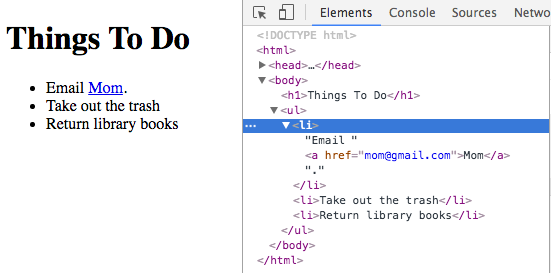
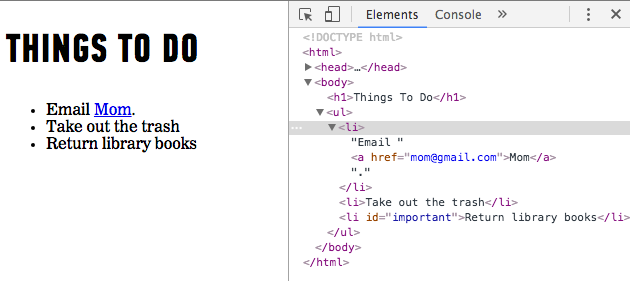
Splitting some material into lesson 2

Changed region(s): [[0.0, 0.0, 1.0, 1.0], [0.0309, 0.293, 0.3394, 0.5568], [0.0, 0.0879, 0.3702, 0.2344]]

diff --git a/05_chapter/08_lesson.md b/05_chapter/08_lesson.md
@@ -1,7 +1,9 @@
 **WDI Fundamentals Unit 5**
 
 ---
-#A Closer Look at the DOM
+#Manipulating the DOM
+
+## A Closer Look at the DOM
 
 We mentioned before that when a browser retrieves the HTML for a page it makes a model of that page in memory. This model is called the DOM.
 
@@ -58,20 +60,15 @@ JavaScript comes with some "built-in" functions that will allow us to access and
 
 Let's take a look at some of the methods we have available to us!
 
-
-#Manipulating the DOM
-
 ##Accessing Elements
 
-First things first! Before we can work with an element, we first need to *find* the DOM node that represents the element that we want to work with.
+First things first! Before we can work with an element, we first need to find, or *select* the DOM node that represents the element that we want to work with.
 
 In order to find an element, we need to search through the document for that element. The syntax for searching for an element looks something like this:
 
 ```js
 document.getElementById('main')
 ```
-
-Let's break this down.
 
 * `document` - Refers to the document object. Any time we want to find an element or elements, we'll need to access them through the document object. This will allow us to search the entire page for an element.
 
@@ -80,6 +77,9 @@ Let's break this down.
 * `getElementById()` - This is the method we want to use to find an element. We'll take a look at the methods that are available to us shortly. This method in particular lets us locate an element by the value of its `id` attribute.
 
 * `'main'` - Just like with the functions we've learned about earlier in this unit, we can pass in parameters for these methods to use. In this case, we want to find an element that has an `id` of `main`.
+
+> **NOTE** Note that using proper syntax here is important! These methods are case sensitive. `getElementByID` (with a capital D) will throw an error and will not work.
+
 
 ###Selecting an Individual Element
 
@@ -90,6 +90,8 @@ There are a couple of methods we can use to find an individual element.
 ####`getElementById()`
 
 The fastest route to finding any single element is `getElementById()`. Since `id`s are unique, meaning two elements cannot have the same value for an `id` attribute in any given HTML page, this query will allow us to quickly find an individual element.
+
+HTML:
 
 ```html
 <div id="sidebar">
@@ -102,23 +104,32 @@ The fastest route to finding any single element is `getElementById()`. Since `id
 </div>
 ```
 
+
+JavaScript:
+
 ```js
 document.getElementById('sidebar')
 ```
-In the above example, we are finding the element that has an `id` of `sidebar`.
+This will find the element that has an `id` of `sidebar`.
 
-
+---
 
 ####`querySelector()`
 
-This method is a recent addition to the DOM and is not supported by older browsers. It's handy because it allows us to use our CSS selector syntax to find an element. If there are multiple elements on the page that match the selector, it will return the first of the matching elements.
+This method allows us to use our CSS selector syntax to find an element. If there are multiple elements on the page that match the selector, it will return the *first* of the matching elements. It is important to note that this a recent addition to the DOM and is not supported by older browsers.
 
 ```js
 document.querySelector('.special')
 ```
 
-This will return the first element that has a `class` of `special`. You can use any of your CSS-style selectors as a parameter. 
+This will return the first element on the page that has a `class` of `special`. You can use any of your CSS-style selectors as a parameter. 
 
+Other examples:
+
+```js
+document.querySelector('#sidebar') // This will find the element that has an id of sidebar.
+document.querySelector('ul > li') // This will find the first li that is a direct child of the ul.
+```
 
 
 ###Selecting Multiple Elements
@@ -142,6 +153,7 @@ For each example below, you can use this HTML snippet as a reference:
 </div>
 ```
 
+___
 
 ####`document.getElementsByClassName()`
 
@@ -152,6 +164,7 @@ document.getElementsByClassName('special')
 ```
 This will return any elements that have the class `special`. In the above example, this will return a NodeList containing the second and third list items, since they both have the class `special`.
 
+---
 
 
 ####`document.getElementsByTagName()`
@@ -162,6 +175,8 @@ This method will locate all elements that match a given tag name.
 document.getElementsByTagName('li')
 ```
 Here, this query will return all `<li>` elements. In the case, the NodeList will contain all seven `<li>`.
+
+___
 
 
 
@@ -174,13 +189,15 @@ document.querySelectorAll('.special')
 ```
 This will return any elements that have the class `special`. In the above example, this will return a NodeList containing the second and third list items, since they both have the class `special`.
 
+___
+
 ####Working with NodeLists
 
-Any time there is the *potential* for a method to return more than one element, such as with `getElementsByClassName()`, `getElementsByTagName()`, and `querySelectorAll`, a NodeList will be returned.
+Any time there is even the *potential* for a method to return more than one element, such as with `getElementsByClassName()`, `getElementsByTagName()`, and `querySelectorAll`, a NodeList will be returned, *even if only one element is found that matches the query*.
 
-These NodeLists are **collections** that are numbered similar to the arrays we looked at in Unit 2.
+These NodeLists are **collections** that are numbered similar to the arrays we will be looking at in Unit 6.
 
-We can select a single item to work from using array syntax (our trusty square brackets).
+When we get this list, we can select a single item from that list to work with using array syntax – a set of square brackets.
 
 For example, above we saw that `document.getElementsByTagName('li')` returned seven list items. The NodeList that was returned would look like this:
 
@@ -194,12 +211,15 @@ For example, above we saw that `document.getElementsByTagName('li')` returned se
 | 5   | `<li>Saturday</li>`  |
 | 6      | `<li>Sunday</li>`  |
 
-		
+Note how each node has an index associated with it. These indexes are *zero based* – meaning the first node has an index of 0, the second node an index of 1, etc.
+
+
 To locate the fourth item in that NodeList, `<li>Thursday</li>`, we could use the following syntax:
 
 ```js
 document.getElementsByTagName('li')[3].className = 'special'
 ```
+Directly after the `getElementsByTagName('li')` we have the index number of the item we want to locate within square brackets, `[3]`, which would locate the item at index 3.
 
 This would find the fourth list item and change the class attribute to `special` (we'll take a look at the className method shortly).
 
@@ -256,7 +276,7 @@ This method will locate the parent of an initial selection.
 ```js
 Document.getElementsByTagName('li')[0].parentNode() 
 ```
-THis will return the parent of the first `<li` element, which, in this case, is the `<ul>` element since it wraps all the `<li` elements.
+THis will return the parent of the first `<li>` element, which, in this case, is the `<ul>` element since it wraps all the `<li` elements.
 
 Other methods available to us include:
 * `previousSibling()` – This will find the previous sibling of a selected element.
@@ -277,6 +297,7 @@ In the following examples, we'll be using this HTML page as a reference:
 <head>
 	<meta charset="utf-8">
 	<title>To Do List</title>
+	<link rel="stylesheet" href="style.css">
 </head>
 <body>
 	<h1>Things To Do</h1>
@@ -297,7 +318,7 @@ Which will look like this when it is first loaded into the browser:
 
 ### Accessing and Updating Content
 
-There are many properties and methods that allow us to read from or update the contents of a DOM node. Let's take a look at a few:
+There are lots of properties and methods that allow us to read from or update the contents of a DOM node. Let's take a look at a couple now and then we'll expand upon these in the next lesson.
 
 ####**`innerHTML`**
 
@@ -306,7 +327,7 @@ We can use the `innerHTML` property to get and set content for an element.
 For example, if we want to change the HTML content for the first `<li>`, we could execute the following:
 
 ```js
-document.getElementsByTagName('li')[0].innerHTML = Email <a href="mom@gmail.com">Mom</a>.';
+document.getElementsByTagName('li')[0].innerHTML = 'Email <a href="mom@gmail.com">Mom</a>.';
 ```
 This would find the first `<li>` and change the HTML content to `Email <a href="mom@gmail.com">Mom</a>.` The result will look like this:
 
@@ -334,82 +355,6 @@ This code would change the text content of the `<li>` that has the id `important
 <center><img src="../assets/chapter5/text_content.png"></center>
 <br>
 
-####**`createElement()` and `appendChild()`**
-
-To add new elements to the page, we'll use a three step process.
-
-1. We will use the `createElement()` method to create a new element, which can then be added to the page. When this node is created, it will be empty. This element will be stored in a variable
-2. We will then add content to the element using the `innerHTML` or `textContent` properties we looked at above.
-3. Now that our element has been created we can add it as a child of an element using the `appendChild()` method.
-
-To add a fourth item to our list we can execute the following code:
-
-```js
-// First up, let's create a new list item and store it in a variable.
-var newListItem = document.createElement('li');
-
-// Alright! Now let's update the text content of that list item.
-newListItem.textContent = 'Feed the cat';
-
-// And Finally...let's add that list item as a child of the ul.
-document.getElementsByTagName('ul')[0].appendChild(newListItem);
-
-```
-<br>
-<center><img src="../assets/chapter5/append_child.png"></center>
-<br>
-
-It takes a few steps but you'll get the hang of it in no time.
-
-### Getting and Setting Attributes
-
-We might also want to update styles and attributes for elements on the page. We can do so using the following properties and methods:
-
-####`className`
-We can change the value of a class attribute for an element using the `className` property. This will apply any styles in our CSS that are associated with that particular class.
-
-For example, maybe we want to highlight an important task in our list. We can add a class and styles in our CSS like so:
-
-```css
-.highlight {
-	background-color: yellow;
-}
-```
-
-And then we can use JavaScript to add this class:
-
-```js
-document.getElementById('important').className = 'highlight';
-
-```
-
-The `.highlight` class will then be added to the element with the id `important` and the background-color associated with this class will be applied:
-
-<br>
-<center><img src="../assets/chapter5/class_name.png"></center>
-<br>
-
-####`setAttribute()`, `removeAttribute()`
-
-We can set and remove attributes from elements using the `setAttribute()` and `removeAttribute()` methods.
-
-For example, if we want to update the `href` attribute on an anchor, we could do the following: 
-
-```js
-document.getElementsByTagName('a')[0].setAttribute('href', 'http://newurl.com');
-
-```
-
-Or if I wanted to remove an id from an element I could execute the following:
-
-```js
-document.getElementsByTagName('a')[0].removeAttribute('id');
-
-```
-
-#Conclusion
-
-Phew! There are so many properties and methods that it can be overwhelming at first! The important thing at this stage is that you understand how things work and know what tools are available to you. Memorization comes with practice!
 
 ---
 

diff --git a/05_chapter/10_lesson.md b/05_chapter/10_lesson.md
@@ -1,11 +1,87 @@
 
 
 
+####**`createElement()` and `appendChild()`**
+
+To add new elements to the page, we'll use a three step process.
+
+1. We will use the `createElement()` method to create a new element, which can then be added to the page. When this node is created, it will be *empty*. This element will be stored in a variable
+2. We will then add content to the element using the `innerHTML` or `textContent` properties we looked at in the last lesson.
+3. Now that our element has been created we can add it as a child of an element using the `appendChild()` method.
+
+To add a fourth item to our list we can execute the following code:
+
+```js
+// First up, let's create a new list item and store it in a variable.
+var newListItem = document.createElement('li');
+
+// Alright! Now let's update the text content of that list item.
+newListItem.textContent = 'Feed the cat';
+
+// And Finally...let's add that list item as a child of the ul.
+document.getElementsByTagName('ul')[0].appendChild(newListItem);
+
+```
+<br>
+<center><img src="../assets/chapter5/append_child.png"></center>
+<br>
+
+It takes a few steps but you'll get the hang of it in no time.
+
+### Getting and Setting Attributes
+
+We might also want to update styles and attributes for elements on the page. We can do so using the following properties and methods:
+
+####`className`
+We can change the value of a class attribute for an element using the `className` property. This will apply any styles in our CSS that are associated with that particular class.
+
+For example, maybe we want to highlight an important task in our list. We can add a class and styles in our CSS like so:
+
+```css
+.highlight {
+	background-color: yellow;
+}
+```
+
+And then we can use JavaScript to add this class:
+
+```js
+document.getElementById('important').className = 'highlight';
+
+```
+
+The `.highlight` class will then be added to the element with the id `important` and the background-color associated with this class will be applied:
+
+<br>
+<center><img src="../assets/chapter5/class_name.png"></center>
+<br>
+
+####`setAttribute()`, `removeAttribute()`
+
+We can set and remove attributes from elements using the `setAttribute()` and `removeAttribute()` methods.
+
+For example, if we want to update the `href` attribute on an anchor, we could do the following: 
+
+```js
+document.getElementsByTagName('a')[0].setAttribute('href', 'http://newurl.com');
+
+```
+
+Or if I wanted to remove an id from an element I could execute the following:
+
+```js
+document.getElementsByTagName('a')[0].removeAttribute('id');
+
+```
+
+#Conclusion
+
+Phew! There are so many properties and methods that it can be overwhelming at first! The important thing at this stage is that you understand how things work and know what tools are available to you. Memorization comes with practice!
+
 
 ##Caching a query
 
-If we'd like to work with that element multiple times, a variable should be used to store, or **cache**, the results of our query. When we store an element in a variable, what we are doing behind the scenes is storing a reference to the location of the element in the DOM tree. We can then use any methods we would normally use on an element on that variable.
-
+> **NOTE** If we'd like to work with that element multiple times, a variable should be used to store, or **cache**, the results of our query. When we store an element in a variable, what we are doing behind the scenes is storing a reference to the location of the element in the DOM tree. We can then use any methods we would normally use on an element on that variable.
 AddEventListener()
 
 ---
